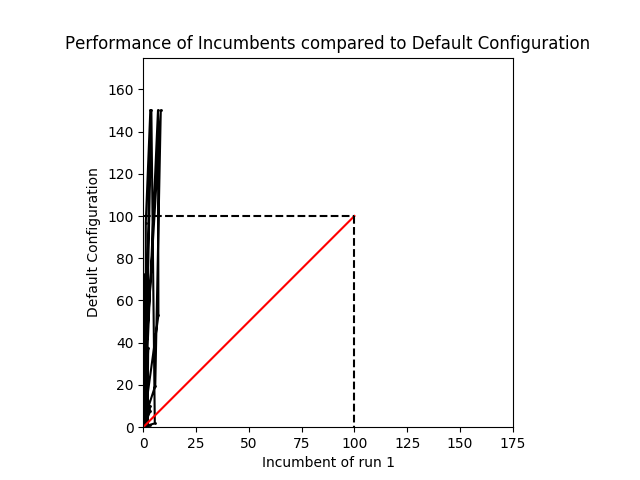
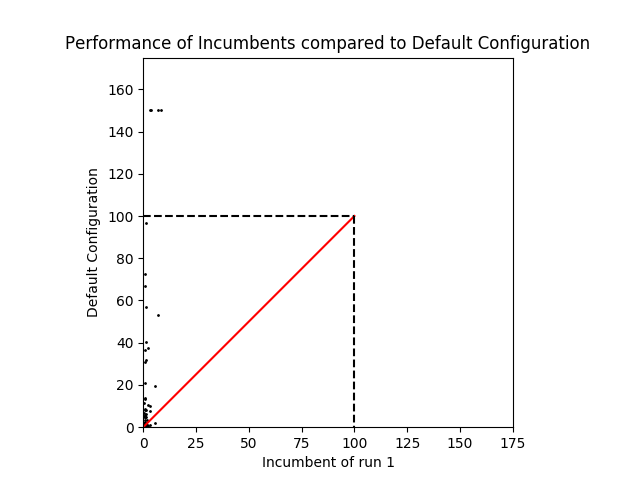
Added plot

Changed region(s): [[0.2188, 0.2188, 0.25, 0.875]]

diff --git a/Exercise2/lpg_depots/validate/plot_validation_1.py b/Exercise2/lpg_depots/validate/plot_validation_1.py
@@ -29,7 +29,7 @@ def main():
             cost_incumbent.append(z_)
     fig1 = plt.figure()
     ax1 = fig1.add_subplot(111)
-    ax1.plot(cost_incumbent,cost_default, marker='o', markersize=1, color="black")
+    ax1.plot(cost_incumbent,cost_default,'ro', markersize=1, color="black")
     ax1.plot([0,100],[0,100],'r-')
     ax1.plot([0,100],[100,100], linestyle='dashed', color="black")
     ax1.plot([100,100],[100,0],linestyle='dashed', color="black")
